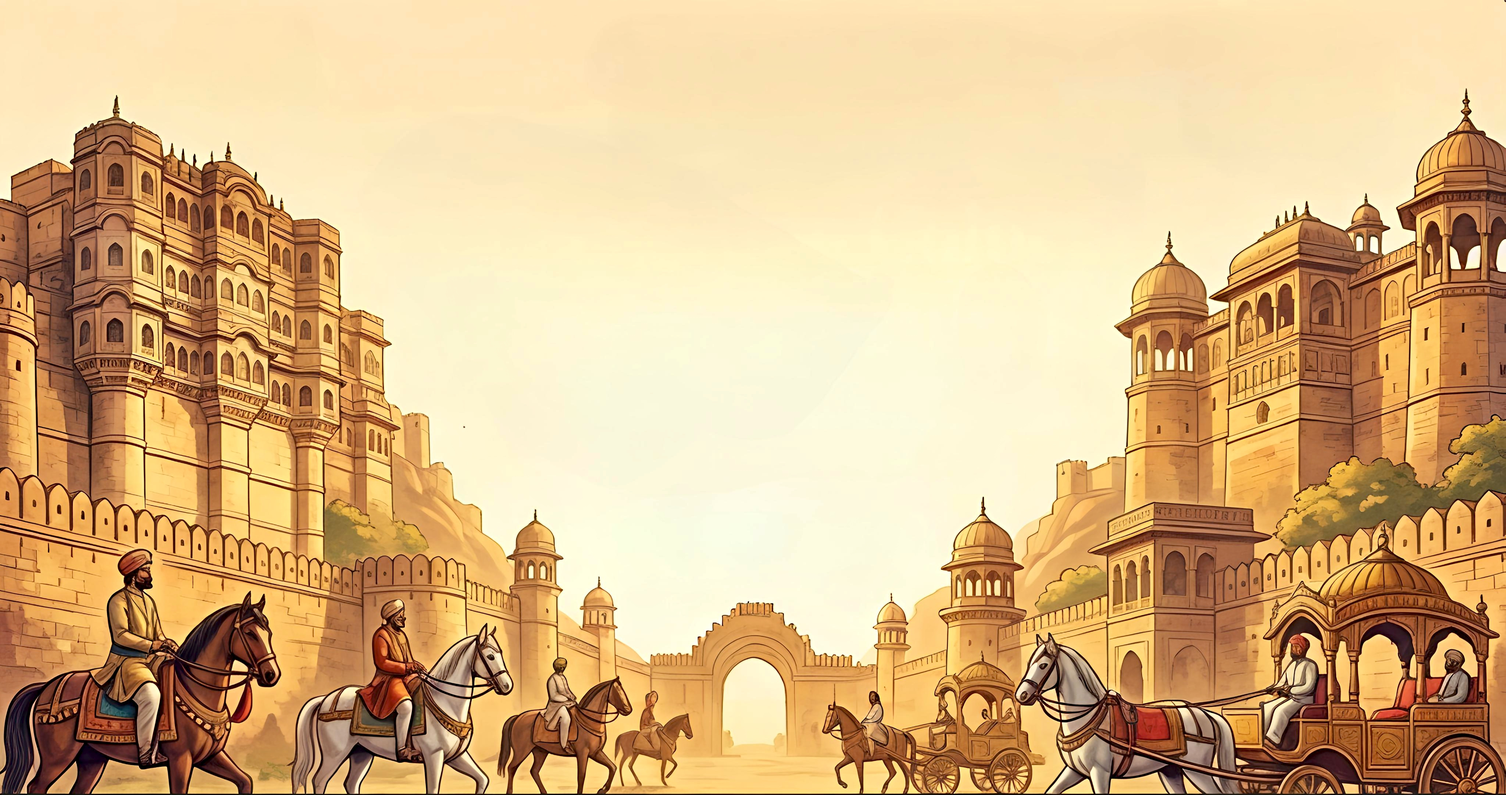
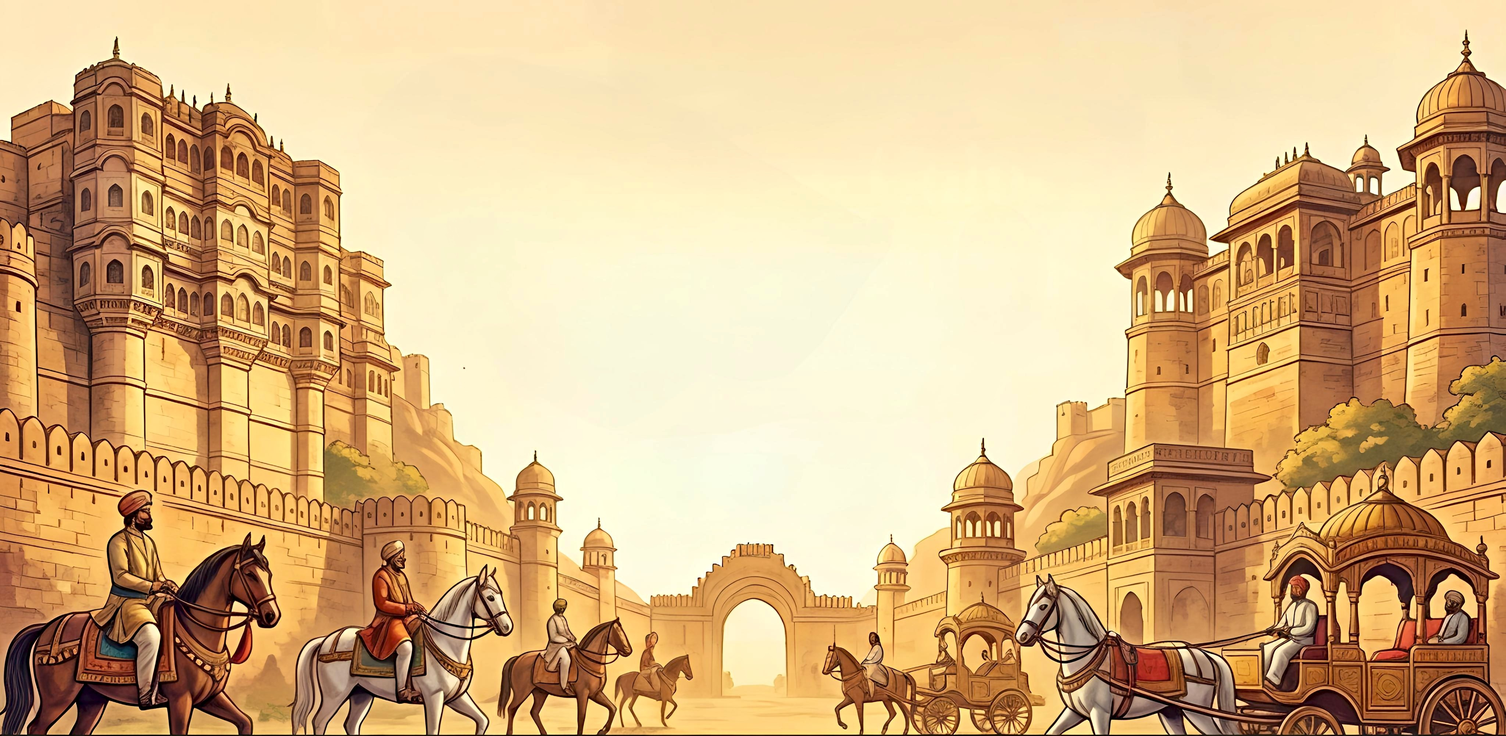
fixed hero styling

diff --git a/lib/packages-data.ts b/lib/packages-data.ts
@@ -10,6 +10,67 @@ export interface Package {
 
 export const allPackages: Package[] =[
   {
+    "id": 10,
+    "title": "Arupadai Veedu Murugan Tour",
+    "duration": "6 Nights / 7 Days",
+    "highlights": "All 6 sacred Murugan temples, Meenakshi Temple",
+    "image": "/Arupadai Veedu Murugan.jpg",
+    "description": "A dedicated pilgrimage to all six Arupadai Veedu (battlefield abodes) of Lord Murugan across Tamil Nadu.",
+    "itinerary": [
+      "Day 1: Arrival in Chennai – Transfer to hotel",
+      "Day 2: Chennai to Tiruvannamalai – Tirutani Murugan temple en route",
+      "Day 3: Tiruvannamalai to Kumbakonam – Tanjore temple & Swamimalai",
+      "Day 4: Kumbakonam to Madurai – Palamudircholai & Tiruparankundram",
+      "Day 5: Madurai to Tiruchendur – Seaside Murugan temple & return",
+      "Day 6: Madurai to Trichy – Palani Murugan temple en route",
+      "Day 7: Trichy temple visits & airport departure"
+    ]
+  },
+  {
+    "id": 11,
+    "title": "Arupadai Veedu & Panchabootha Stalam",
+    "duration": "9 Nights / 10 Days",
+    "highlights": "6 Murugan temples, 5 Elemental Shiva temples",
+    "image": "/Arupadai Veedu & Panchabootha Stalam.jpg",
+    "description": "A comprehensive spiritual journey covering both the 6 Arupadai Veedu Murugan temples and the 5 Panchabootha (elemental) Shiva temples.",
+    "itinerary": [
+      "Day 1: Arrival in Trichy – Transfer to hotel",
+      "Day 2: Trichy to Rameswaram – Water element temple en route",
+      "Day 3: Rameswaram to Madurai – Arupadai Veedu temples",
+      "Day 4: Madurai to Palani – More Arupadai Veedu temples",
+      "Day 5: Palani to Kumbakonam – Tanjore Big Temple",
+      "Day 6: Kumbakonam to Tiruvannamalai – Sky & Fire element temples",
+      "Day 7: Tiruvannamalai to Kanchipuram – Earth element temple",
+      "Day 8: Kanchipuram to Sri Kalahasti – Air element temple",
+      "Day 9: Sri Kalahasti to Chennai – Temple visits",
+      "Day 10: Chennai airport departure"
+    ]
+  },
+  {
+    "id": 12,
+    "title": "Kerala & Tamil Nadu Fusion",
+    "duration": "13 Nights / 14 Days",
+    "highlights": "Houseboat stay, Meenakshi Temple, Kanyakumari, Temples",
+    "image": "/chinese-fishing-nets-kochi-sunset-kerala-tradition.jpg",
+    "description": "A perfect blend of Kerala's backwaters and hill stations with Tamil Nadu's iconic temples and spiritual destinations.",
+    "itinerary": [
+      "Day 1: Arrival in Cochin – City tour",
+      "Day 2: Cochin to Alleppey – Houseboat stay",
+      "Day 3: Alleppey to Munnar – Tea plantations",
+      "Day 4: Munnar to Coimbatore – Eravikulam Park & Isha Yoga Center",
+      "Day 5: Coimbatore to Madurai – Palani & temple visits",
+      "Day 6: Madurai to Kanyakumari – Sunset point & temple",
+      "Day 7: Kanyakumari to Rameswaram – Tiruchendur temple en route",
+      "Day 8: Rameswaram to Kumbakonam – Ramanathaswamy temple",
+      "Day 9: Kumbakonam to Trichy – Tanjore Big Temple",
+      "Day 10: Trichy to Tiruvannamalai – Arunachaleshwarar temple",
+      "Day 11: Tiruvannamalai to Tirupati – Golden temple en route",
+      "Day 12: Tirupati to Chennai – Tirutani temple en route",
+      "Day 13: Chennai exploration – Sightseeing & shopping",
+      "Day 14: Chennai airport departure"
+    ]
+  },
+  {
     "id": 1,
     "title": "Karnataka Heritage Grand Tour",
     "duration": "14 Nights / 15 Days",
@@ -142,11 +203,12 @@ export const allPackages: Package[] =[
       "Day 2: Bangalore to Hassan – Shravanabelagola & Belur/Halebid temples",
       "Day 3: Hassan to Kollur – Sringeri Sharada Peetham & Mookambika temple",
       "Day 4: Kollur to Murudeshwar – World's second-tallest Shiva statue",
-      "Day 5: Murudeshwar to Mangalore – Udupi Krishna temple en route",
-      "Day 6: Mangalore to Madikere – Dharmasthala & Subramanya temples",
-      "Day 7: Madikere to Mysore – Tibetan Monastery & Maharaja Palace",
-      "Day 8: Mysore to Bangalore – Chamundeshwari temple",
-      "Day 9: Bangalore airport departure"
+      "Day 5: Kollur to Murudeshwar – World's second-tallest Shiva statue",
+      "Day 6: Murudeshwar to Mangalore – Udupi Krishna temple en route",
+      "Day 7: Mangalore to Madikere – Dharmasthala & Subramanya temples",
+      "Day 8: Madikere to Mysore – Tibetan Monastery & Maharaja Palace",
+      "Day 9: Mysore to Bangalore – Chamundeshwari temple",
+      "Day 10: Bangalore airport departure"
     ]
   },
   {
@@ -183,67 +245,6 @@ export const allPackages: Package[] =[
       "Day 4: Shirdi to Nashik – Sula Vineyards & Trimbakeshwar temple",
       "Day 5: Nashik to Mumbai – Bhimashankar Jyotirlinga en route",
       "Day 6: Mumbai exploration & airport departure"
-    ]
-  },
-  {
-    "id": 10,
-    "title": "Arupadai Veedu Murugan Tour",
-    "duration": "6 Nights / 7 Days",
-    "highlights": "All 6 sacred Murugan temples, Meenakshi Temple",
-    "image": "/Arupadai Veedu Murugan.jpg",
-    "description": "A dedicated pilgrimage to all six Arupadai Veedu (battlefield abodes) of Lord Murugan across Tamil Nadu.",
-    "itinerary": [
-      "Day 1: Arrival in Chennai – Transfer to hotel",
-      "Day 2: Chennai to Tiruvannamalai – Tirutani Murugan temple en route",
-      "Day 3: Tiruvannamalai to Kumbakonam – Tanjore temple & Swamimalai",
-      "Day 4: Kumbakonam to Madurai – Palamudircholai & Tiruparankundram",
-      "Day 5: Madurai to Tiruchendur – Seaside Murugan temple & return",
-      "Day 6: Madurai to Trichy – Palani Murugan temple en route",
-      "Day 7: Trichy temple visits & airport departure"
-    ]
-  },
-  {
-    "id": 11,
-    "title": "Arupadai Veedu & Panchabootha Stalam",
-    "duration": "9 Nights / 10 Days",
-    "highlights": "6 Murugan temples, 5 Elemental Shiva temples",
-    "image": "/Arupadai Veedu & Panchabootha Stalam.jpg",
-    "description": "A comprehensive spiritual journey covering both the 6 Arupadai Veedu Murugan temples and the 5 Panchabootha (elemental) Shiva temples.",
-    "itinerary": [
-      "Day 1: Arrival in Trichy – Transfer to hotel",
-      "Day 2: Trichy to Rameswaram – Water element temple en route",
-      "Day 3: Rameswaram to Madurai – Arupadai Veedu temples",
-      "Day 4: Madurai to Palani – More Arupadai Veedu temples",
-      "Day 5: Palani to Kumbakonam – Tanjore Big Temple",
-      "Day 6: Kumbakonam to Tiruvannamalai – Sky & Fire element temples",
-      "Day 7: Tiruvannamalai to Kanchipuram – Earth element temple",
-      "Day 8: Kanchipuram to Sri Kalahasti – Air element temple",
-      "Day 9: Sri Kalahasti to Chennai – Temple visits",
-      "Day 10: Chennai airport departure"
-    ]
-  },
-  {
-    "id": 12,
-    "title": "Kerala & Tamil Nadu Fusion",
-    "duration": "13 Nights / 14 Days",
-    "highlights": "Houseboat stay, Meenakshi Temple, Kanyakumari, Temples",
-    "image": "/chinese-fishing-nets-kochi-sunset-kerala-tradition.jpg",
-    "description": "A perfect blend of Kerala's backwaters and hill stations with Tamil Nadu's iconic temples and spiritual destinations.",
-    "itinerary": [
-      "Day 1: Arrival in Cochin – City tour",
-      "Day 2: Cochin to Alleppey – Houseboat stay",
-      "Day 3: Alleppey to Munnar – Tea plantations",
-      "Day 4: Munnar to Coimbatore – Eravikulam Park & Isha Yoga Center",
-      "Day 5: Coimbatore to Madurai – Palani & temple visits",
-      "Day 6: Madurai to Kanyakumari – Sunset point & temple",
-      "Day 7: Kanyakumari to Rameswaram – Tiruchendur temple en route",
-      "Day 8: Rameswaram to Kumbakonam – Ramanathaswamy temple",
-      "Day 9: Kumbakonam to Trichy – Tanjore Big Temple",
-      "Day 10: Trichy to Tiruvannamalai – Arunachaleshwarar temple",
-      "Day 11: Tiruvannamalai to Tirupati – Golden temple en route",
-      "Day 12: Tirupati to Chennai – Tirutani temple en route",
-      "Day 13: Chennai exploration – Sightseeing & shopping",
-      "Day 14: Chennai airport departure"
     ]
   },
   {

diff --git a/components/hero-section.tsx b/components/hero-section.tsx
@@ -25,25 +25,22 @@ export function HeroSection() {
   };
 
   return (
-    <section className="relative min-h-screen flex items-center justify-center overflow-hidden -mb-20">
-      {/* Updated Background Image */}
+    <section className="relative min-h-screen flex items-center justify-center overflow-hidden">
+      {/* Background Image */}
       <div
-        className="absolute inset-0 bg-cover bg-center bg-no-repeat"
+        className="absolute inset-0 bg-cover bg-center bg-no-repeat z-0"
         style={{
           backgroundImage: `url('/hero-bg.jpg')`,
-          width: "100vw",
-          marginLeft: "calc(-50vw + 50%)",
-          marginRight: "calc(-50vw + 50%)",
         }}
       />
 
       {/* Navigation moved inside hero section */}
-      <div className="absolute top-0 left-0 right-0 z-50 pl-31">
+      <div className="absolute top-0 left-0 right-0 z-50">
         <Navigation />
       </div>
 
       {/* Content */}
-      <div className="relative z-10 text-center px-4 max-w-4xl mx-auto pt-1 flex flex-col items-center justify-center min-h-screen pb-20">
+      <div className="relative z-10 text-center px-4 max-w-4xl mx-auto flex flex-col items-center justify-center min-h-screen py-20">
         {/* Logo in the center */}
         <motion.div
           initial={{ opacity: 0, y: 30 }}

diff --git a/app/page.tsx b/app/page.tsx
@@ -12,11 +12,7 @@ export default function HomePage() {
   return (
     <div className="w-full">
       {/* Hero Section */}
-      <section className="min-h-screen w-full isolate relative pb-20">
-         <div className="container mx-auto pb-20">
-        <HeroSection />
-        </div>
-      </section>
+      <HeroSection />
 
       {/* Featured Packages Section */}
       <section className="min-h-screen w-full isolate py-0">
